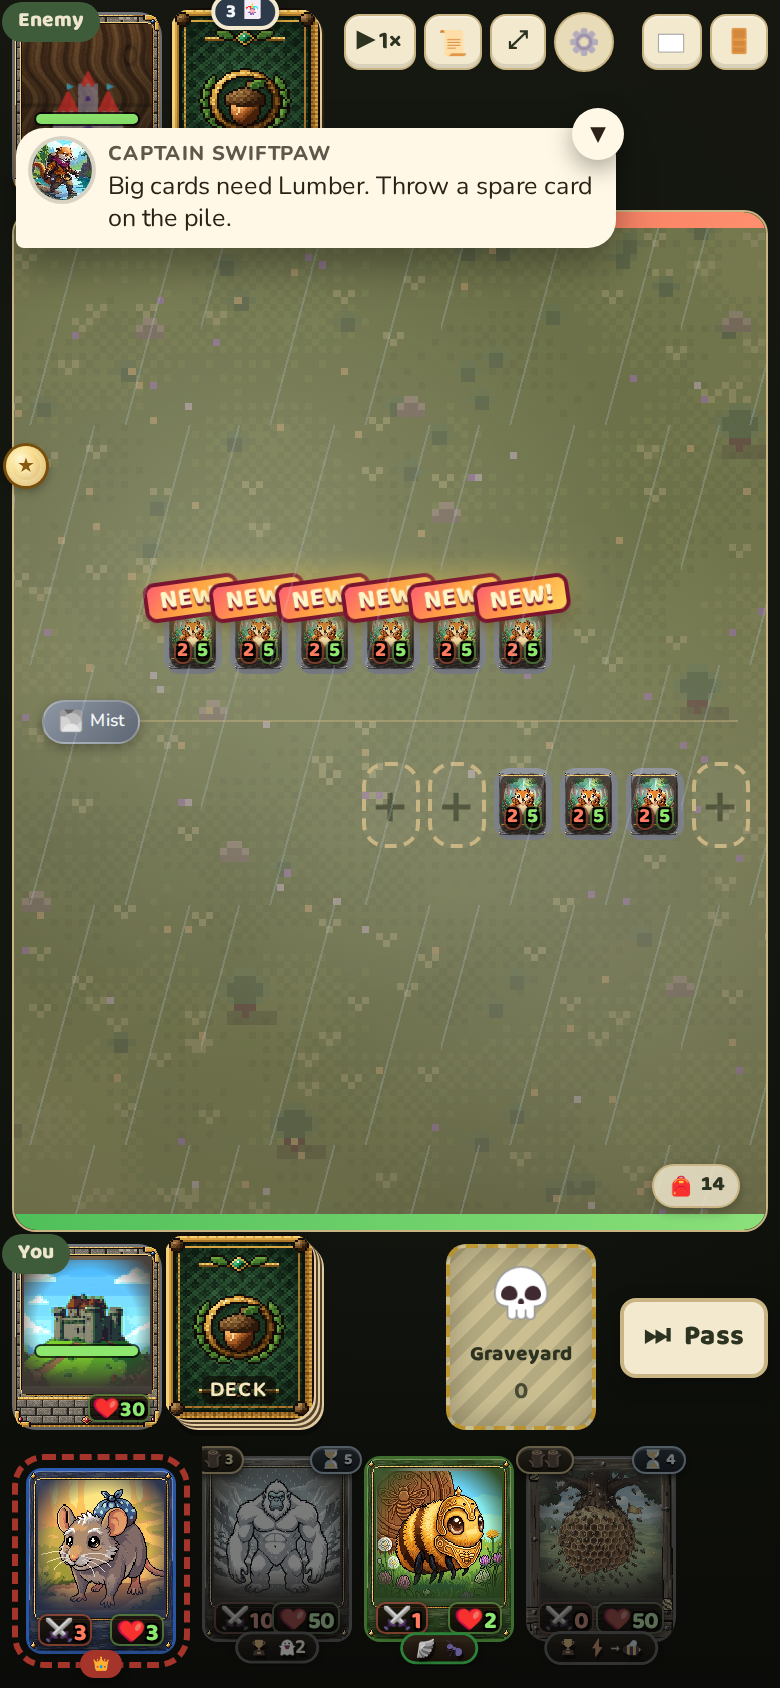
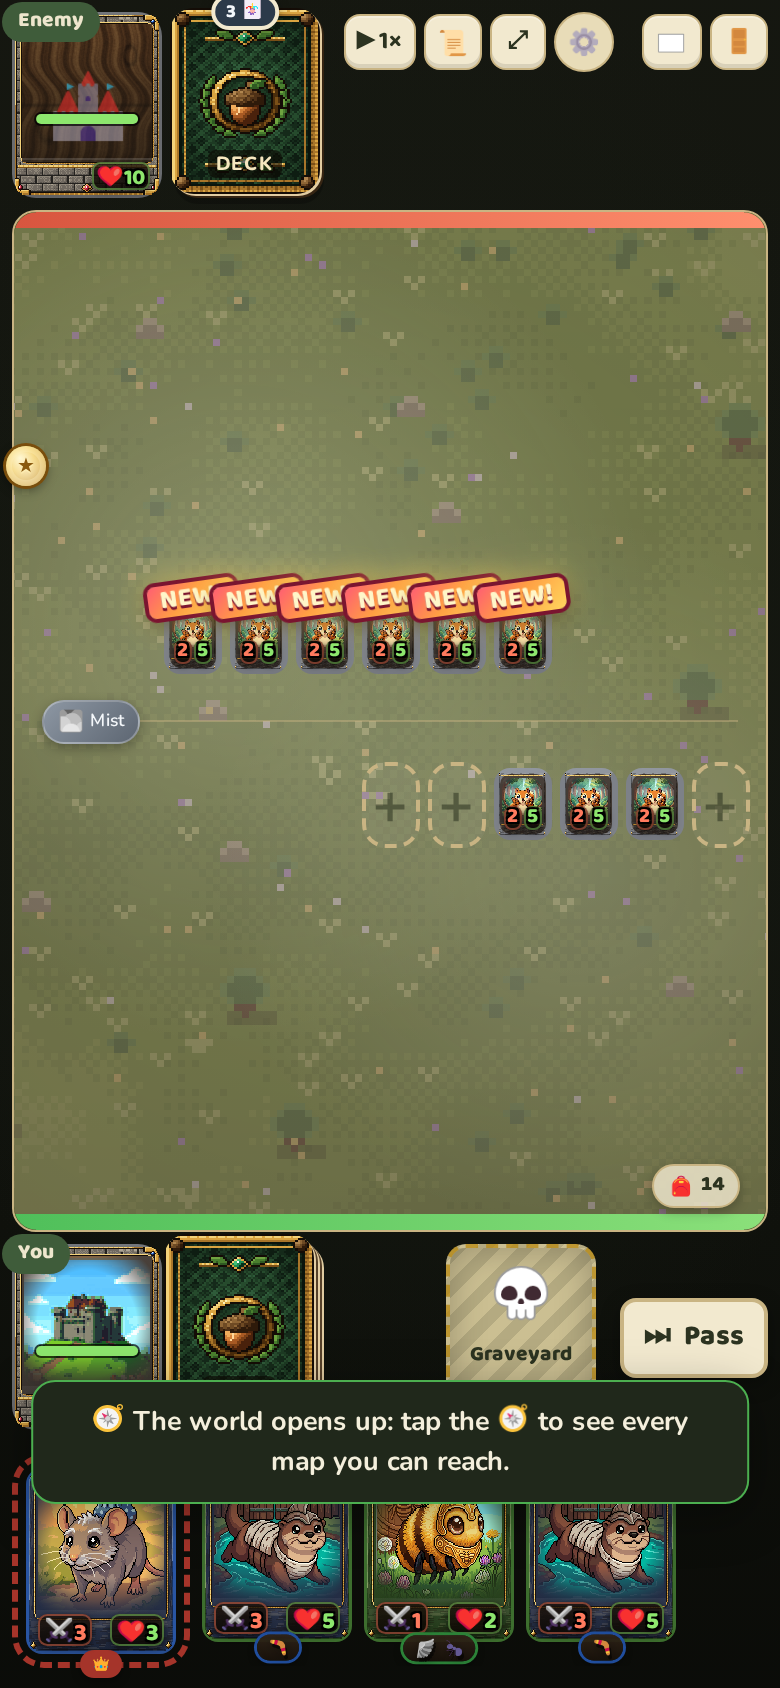
Package BU: the centre column is always playable and in frame, castle numbers centred on the HP bar, Cleave a crisp crescent on the target row, fast forward 3x/4x/5x at Maps 20/40/60, the raid's Tentacle Smack redrawn
- engine legalSlots: slot 0 legal whenever empty (golden card-matrix re-accepted: 22 open matches, this rule only)
- mb2SpanWindow always holds column 0, centred on it when that costs at most one column (MB2_CENTRE_SLACK)
- hqRibbonFloatAnchor: the HP bar's on-screen centre, no sideways drift
- cleaveSlots: side points from the target's row only; SkillFX.crescentSlash (card-sized filled crescent, short trail)
- speedStepsFor / SPEED_GATES (Maps 20/40/60), locked speeds skipped, TX ui.speed-locked lock hint + 12 packs
- FX.F.tentacleSmack: drawn SVG tentacle, slam 220 ms, squash/shake/smoke, pull back 350 ms fading; reduced motion flash; Low effects up
- Effects Lab: Cleave variant F, row smack inventoried
- tests/bu-2026-10-19.js (run-all), tests/e2e/battle_ui_2026_10_19.py; screenshots docs/screens/bu

Claude-Session: https://claude.ai/code/session_01R6XsJCmXvcJWh931mAnv4Q

Changed region(s): [[0.0308, 0.8009, 0.9846, 0.9858], [0.0, 0.0616, 0.8, 0.1848]]

diff --git a/tests/e2e/battle_ui_2026_10_19.py b/tests/e2e/battle_ui_2026_10_19.py
@@ -92,11 +92,15 @@ async def hp_float(pg, tag):
 
 async def cleave(pg, tag):
     # ours: the Beetle Battering-Ram (Cleave 3) at slot 1 facing three enemies at 0..2
-    await pg.evaluate(SETUP, {'theirs': [['chipmunk-stockpiler', s] for s in (0, 1, 2)], 'mine': [['beetle-battering-ram', 1], ['chipmunk-skirmisher', 0]]})
-    await pg.wait_for_timeout(800)
-    await pg.evaluate("matchState.speedMult = 0.5; (async()=>{ try{ await skipTurn(); }catch(e){} })(); 1")
+    # (a round can roll a miss on the main strike, e.g. the map's Mist: then there's no grouped swing; up to three rounds are tried)
     box = None
-    for _ in range(140):
+    for attempt in range(3):
+      if box and box['t']: break
+      await pg.evaluate("(async()=>{ for(let i = 0; i < 80 && matchState.resolving; i++) await new Promise(r=> setTimeout(r, 100)); })()")
+      await pg.evaluate(SETUP, {'theirs': [['chipmunk-stockpiler', s] for s in (0, 1, 2)], 'mine': [['beetle-battering-ram', 1], ['chipmunk-skirmisher', 0]]})
+      await pg.wait_for_timeout(800)
+      await pg.evaluate("matchState.speedMult = 0.5; (async()=>{ try{ await skipTurn(); }catch(e){} })(); 1")
+      for _ in range(140):
         box = await pg.evaluate("""(()=>{ const s = document.querySelector('svg.sfx-crescent, svg.sfx-arc'); if(!s) return null;
           const p = [...s.querySelectorAll('path')].filter(e=> getComputedStyle(e).display !== 'none'); if(!p.length) return null;
           let L=1e9,T=1e9,R=-1e9,B=-1e9; p.forEach(e=>{ const r = e.getBoundingClientRect(); L=Math.min(L,r.left); T=Math.min(T,r.top); R=Math.max(R,r.right); B=Math.max(B,r.bottom); });

diff --git a/docs/balance/BU-checkpoint.md b/docs/balance/BU-checkpoint.md
@@ -16,4 +16,4 @@ Owner feedback 12:23 (iPhone 430 px). Items:
 - [x] 5 tests/bu-2026-10-19.js (46 checks, in run-all.sh), tests/e2e/battle_ui_2026_10_19.py (passes); card-matrix golden re-accepted (22 open matches, the centre rule only: verified by running with the rule off = 0 diffs)
 - [x] 6 FX.F.tentacleSmack rebuilt (tentacleSVG, smokePuff); raidSmackFx shows at Low and under reduced motion (flash); lab inventory + row smack entry
 - [x] CHANGELOG, screenshots docs/screens/bu (before-*, after-*)
-- [ ] merge main, rebuild, final commit
+- [x] merged main (RB), rebuilt, e2e + unit + affected tests pass; final commit
